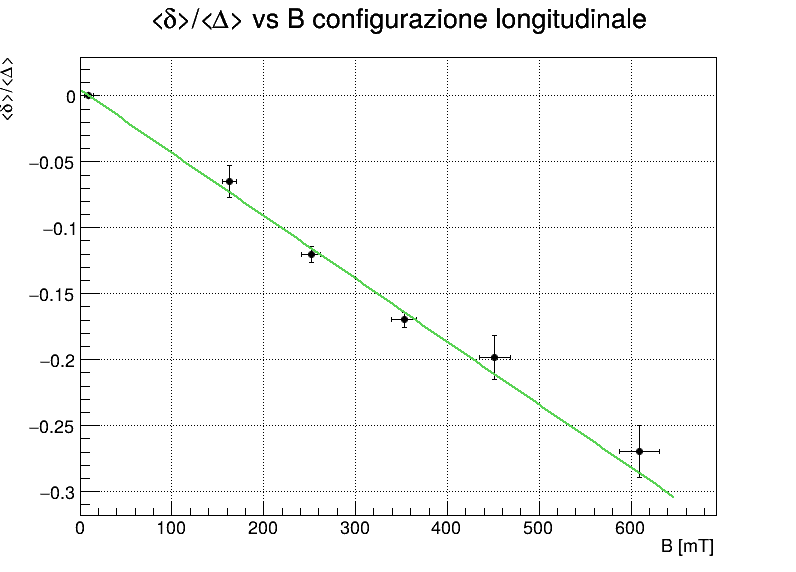
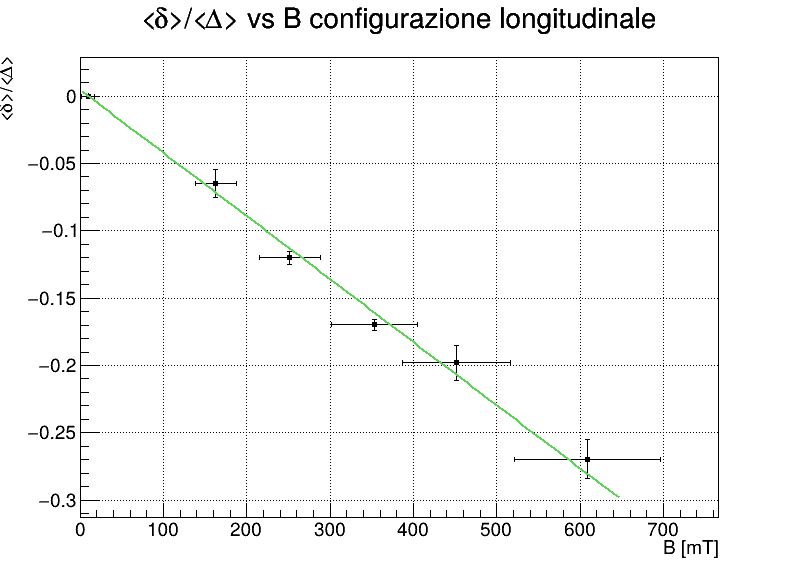
ok b

diff --git a/LAB_struttura/zeeman_l.C b/LAB_struttura/zeeman_l.C
@@ -21,26 +21,31 @@ const int n=6;
 
 
 double B[n]={
-    9.689425,
+   9.6894850486,
     162.813355,
     251.685283,
     353.167417,
     451.647121,
-    608.974453};
-double D[n]={0,-0.0649516698204875,-0.120095195597203,-0.169710208800403,-0.198121498988744,-0.269541998299811};
+    608.974453,};
+double D[n]={0, -0.0649516698204875,
+        -0.120095195597203,
+        -0.169710208800403,
+        -0.198121498988744,
+        -0.269541998299811,
+    };
 double err_B[n]={
-    5.273584473,
-    7.960500543,
-    10.44190418,
-    13.55193279,
-    16.70278469,
-    21.86563961};
+    7.78612894279188,
+    24.3664931038138,
+    36.7416786489251,
+    51.13525679175,
+    65.2025763749299,
+    87.7611078087855,};
 double err_D[n]={0,
-0.0124707767888635,
-0.00590179515888584,
-0.00572781404457523,
-0.0165620615472156,
-0.0194517240423637};
+0.0106708507425432,
+0.00493935999674321,
+0.00421104875145609,
+0.0127591476546393,
+0.0146494199870778,};
 TCanvas *c1 = new TCanvas("c1", "verifica linearità", 800, 600);
     c1->SetGrid();
 
